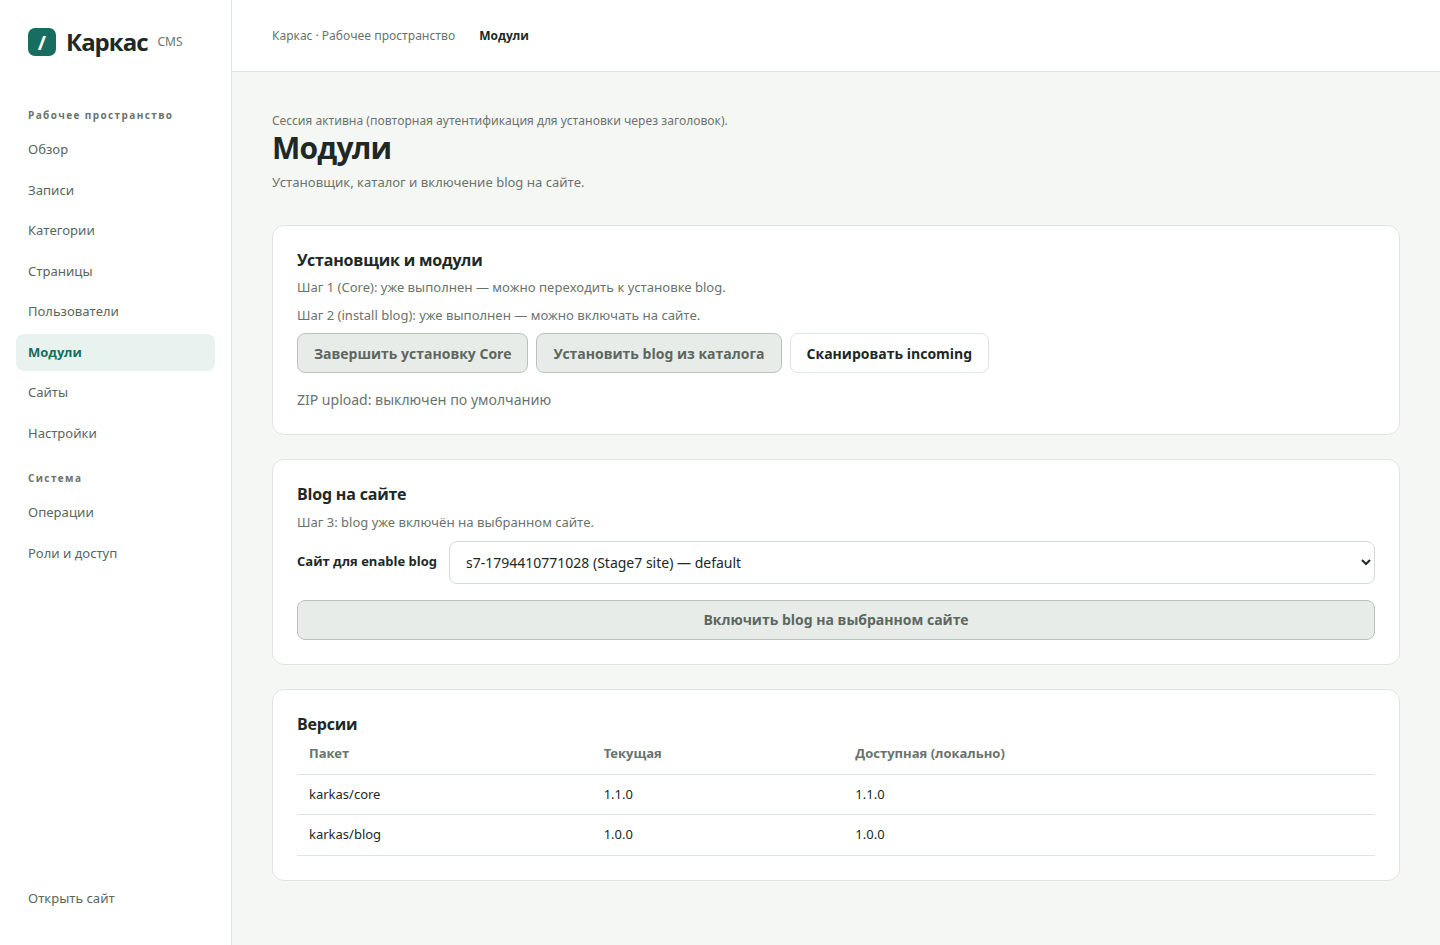
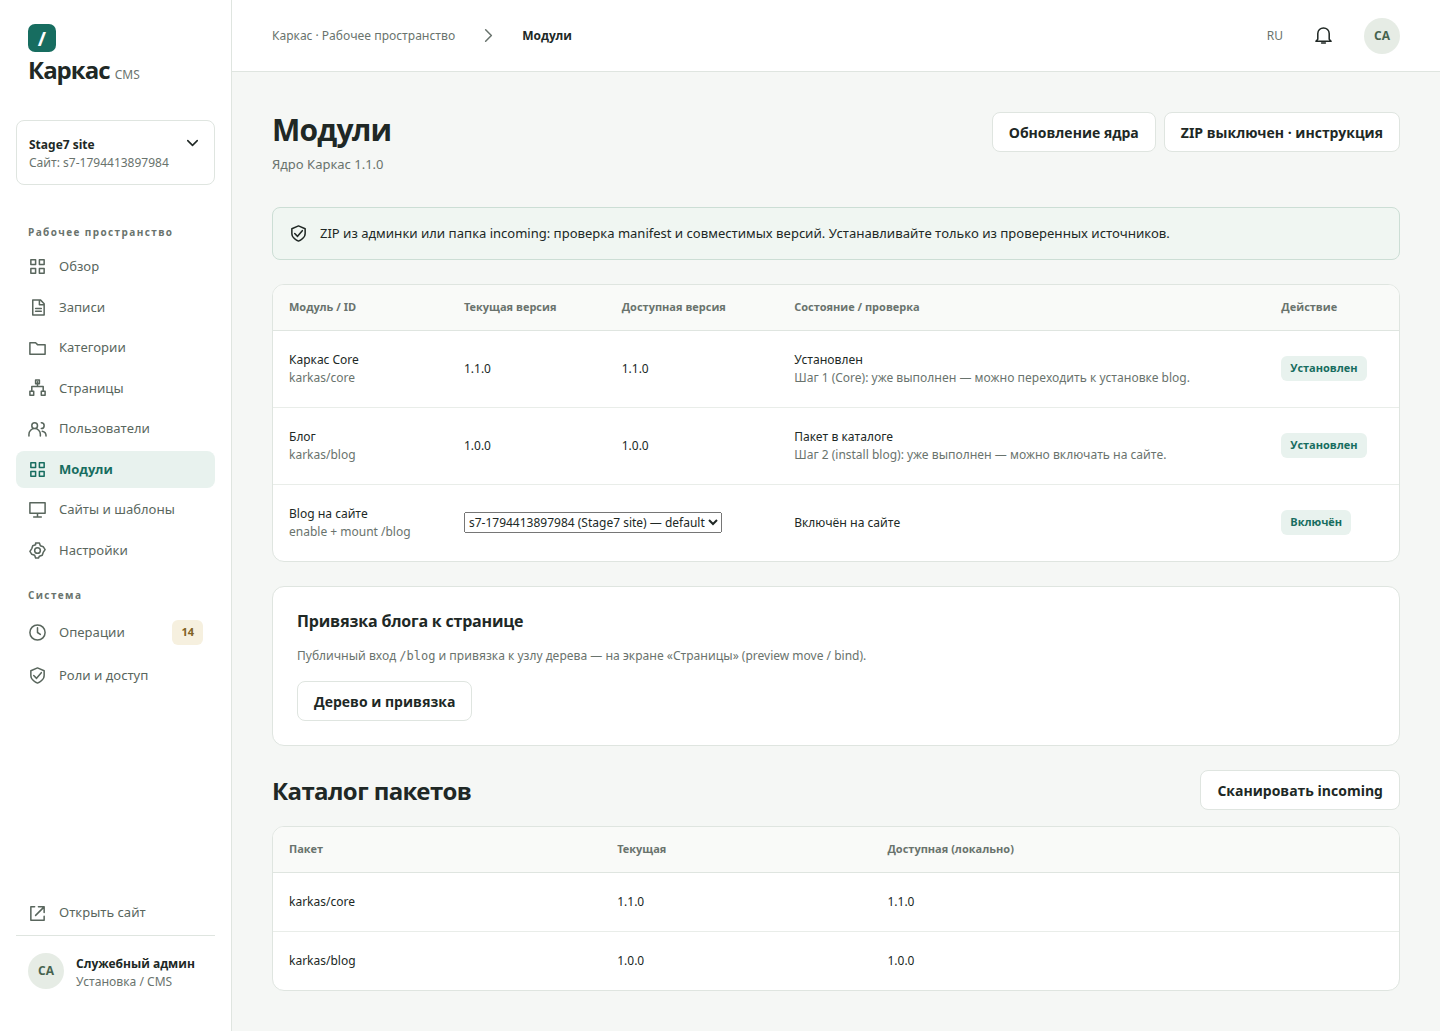
docs: stage 7.5 mockup pass screenshots, mismatch table, e2e proof

diff --git a/docs/stage-7.5.md b/docs/stage-7.5.md
@@ -2,8 +2,8 @@
 
 Ветка **`grok_bot` → `develop`**, PR **#17**, **не мержить** до ревью Den.
 
-**code-head:** `073557c`  
-**docs-head:** `8e0c83d`
+**code-head:** `be8281a`  
+**docs-head:** `722f581`
 
 ---
 
@@ -149,25 +149,27 @@
 | `/admin/operations` | Журнал операций или empty | `GET /api/v1/admin/platform/operations` (cron/DLQ **нет**) |
 | `/admin/users`, `/admin/roles` | Заглушка этап 8 | **нет API** |
 
-На `/posts` сохранён блок демо save/history (этап 3–4) для регрессии blog.
+Регрессия blog: e2e через **Новая запись → редактор → сохранение → история** (без блока «Быстрые действия»).
 
 ---
 
 ## Расхождения с макетом v16
 
-Колонка **тип**: **нет API** — ограничение платформы; **не сделано** — API есть, UI/UX не доведён до макета.
+Колонка **тип**: **сделано** — приведено к макету в рамках API; **нет API** — ограничение платформы; **отложено** — осознанно не в 7.5; **не сделано** — API есть, UI ещё не доведён.
 
 | Экран | Расхождение | Тип | Почему |
 |-------|-------------|-----|--------|
+| Shell (сайдбар + шапка) | — | **сделано** | Иконки, счётчики из API, пользователь/«Открыть сайт», breadcrumbs `>`, RU/колокольчик/аватар |
 | Обзор | Нет ленты статей, графиков, счётчиков | **нет API** | Нет эндпоинта сводки; empty state вместо демо-цифр |
-| Записи | Нет WYSIWYG, фильтров, «36» в сайдбаре | **не сделано** / **нет API** | Список из API есть; rich editor и метаданные — не в scope |
-| Редактор | Текстовое поле, не article-editor.html | **не сделано** | API save plain text |
-| Категории | Пустой экран | **нет API** | Категории блога не exposed |
-| Сайты | Без «шаблонов» | **нет API** | Site templates — этап 8+ |
-| Модули | Нет полного ZIP/conflict UI | **не сделано** | scan-incoming + install есть; макет module-upload шире |
-| Страницы | Список + кнопки, не DnD-дерево | **не сделано** | move/preview API есть; DnD UI не делали |
-| Вход | Без арт-панели staff-login | **не сделано** | Функциональный вход |
-| Операции | Нет cron/DLQ таблиц | **нет API** | Только platform operations log |
+| Записи | Таблица, пустое состояние, без e2e-блока | **сделано** (список) | Нет WYSIWYG, фильтров, колонки категорий из API — **отложено** |
+| Редактор | Текстовое поле, не article-editor.html | **отложено** | API save plain text |
+| Категории | Пустой экран, без table-card | **нет API** | Категории блога не exposed |
+| Сайты | Заголовок и таблица; без вкладок «шаблоны» | **сделано** (multisite) / **нет API** (шаблоны) | Site templates — этап 8+ |
+| Модули | Таблица Core/blog/enable, кнопки сверху, ZIP-notice | **сделано** (installer) | Полный ZIP upload/conflict UI — **отложено**; binding v16 — ссылка на `/pages`, не отдельный wizard |
+| Страницы | API-дерево, не DnD mock tree.html | **отложено** | move/preview есть; DnD и карточка детали — не делали |
+| Вход | Без арт-панели staff-login | **отложено** | Функциональный пароль; без демо-email/2FA notice |
+| Настройки | Две platform-настройки, не settings-layout | **нет API** | Макет — site settings, secrets, доставка |
+| Операции | Журнал из API; нет cron/DLQ | **нет API** | Только `platform/operations` |
 | Пользователи / Роли | «появится на этапе 8» | **нет API** | По ТЗ |
 | Операции (макет) | Отдельного png нет | — | Плейсхолдер `mock-1440-operations.png` |
 
@@ -190,21 +192,22 @@
 4. **DnD дерева страниц** — приоритет при наличии move API?
 5. **API обзора (dashboard)** — какие агрегаты нужны в первой версии?
 6. **Макеты 390** — прислать png для паритета с 1440?
-7. **Список записей** — убрать демо-блок с `/posts`, оставить только CRUD UI?
-
 ---
 
-## Локальный Playwright (как CI, `c8d45a2` + `073557c`)
+## Локальный Playwright + axe
 
-`docker compose down -v && up`, `.env`: `KARKAS_ADMIN_PASSWORD=test-admin-password-stage2`, `admin-ui` build, `e2e`: `npm test` с `BASE_URL=http://127.0.0.1:8080`.
+`docker compose up`, `.env`: `KARKAS_ADMIN_PASSWORD=test-admin-password-stage2`, `admin-ui` `npm run build`, `e2e`: `npm test` с `BASE_URL=http://127.0.0.1:8080`.
 
-Итог (полный набор 92 теста): **91 passed, 1 skipped, 0 failed** (~37s). Единственный skip: mobile `page move preview screenshot desktop`.
+Итог (полный набор 92 теста, финальный прогон mockup-прохода): **91 passed, 1 skipped, 0 failed** (~39s). Skip: mobile-only `page move preview screenshot desktop`. Axe: `stage4` (history), `stage6` (modules), `smoke` — 0 violations после правок таблиц/`aria-label`.
 
 ```
+  ✓  92 passed scenarios (91 + 1 spec skip)
   1 skipped
-  91 passed (36.7s)
+  91 passed (39.2s)
 ```
+
+Скриншоты docs: `npx playwright test tests/stage75-screenshots.spec.ts` → `docs/stage-7.5/screenshots/result-*`.
 
 ## CI
 
-GitHub PR run [43043145213](https://github.com/dsefremov/karkas-cms/actions/runs/43043145213) (`967a9c7`): php-static, frontend, phpunit-matrix×4, release-artifact — **success**; **playwright — failure** (DNS/apt на `playwright install chromium --with-deps`, не тесты). Перезапуск failed jobs — по расписанию агента (~1ч после 15:09 UTC).
+После push смотреть последний run на `grok_bot` в PR #17. Ранее: php-static, frontend, phpunit×4, release-artifact — **success**; **playwright** — **failure** на `playwright install --with-deps` (`azure.archive.ubuntu.com`, apt/DNS), не на тестах. Перезапуск failed jobs — Den.
